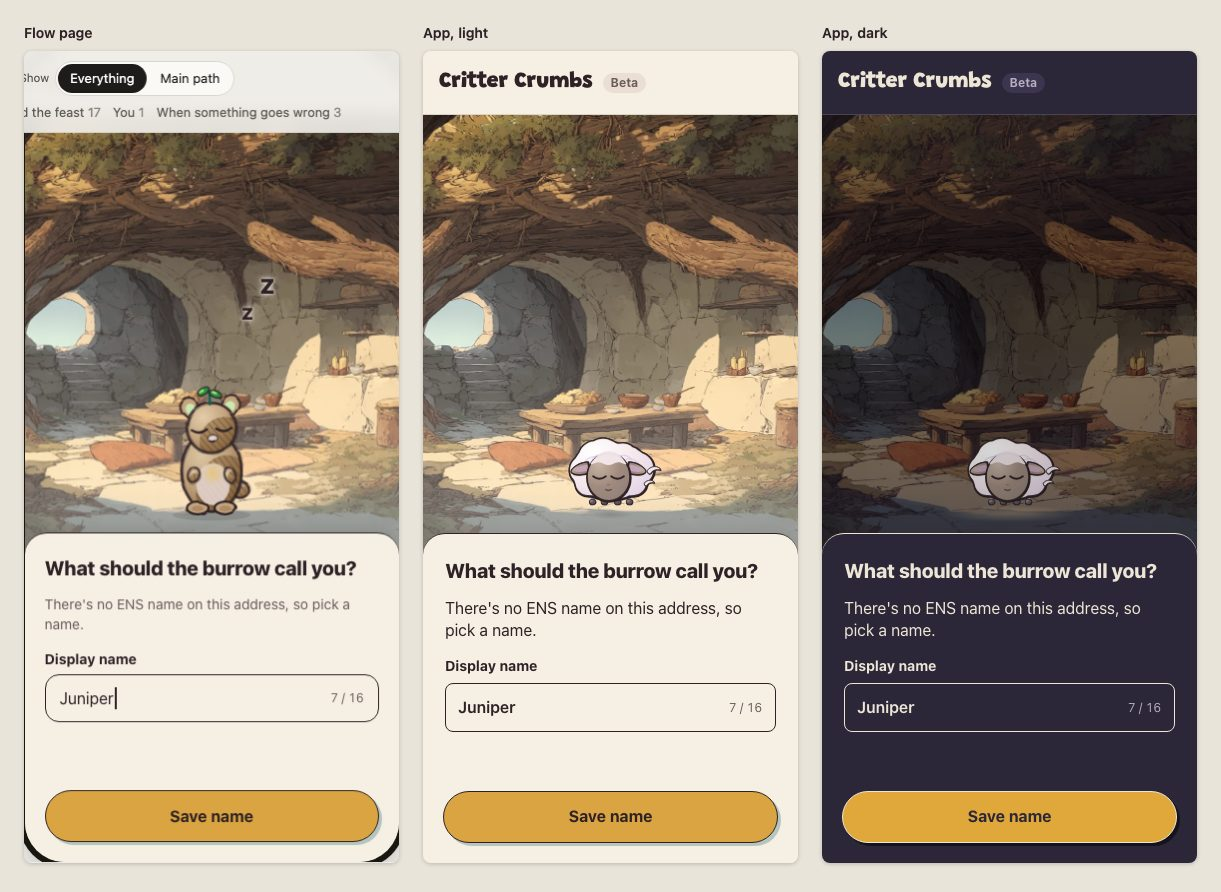
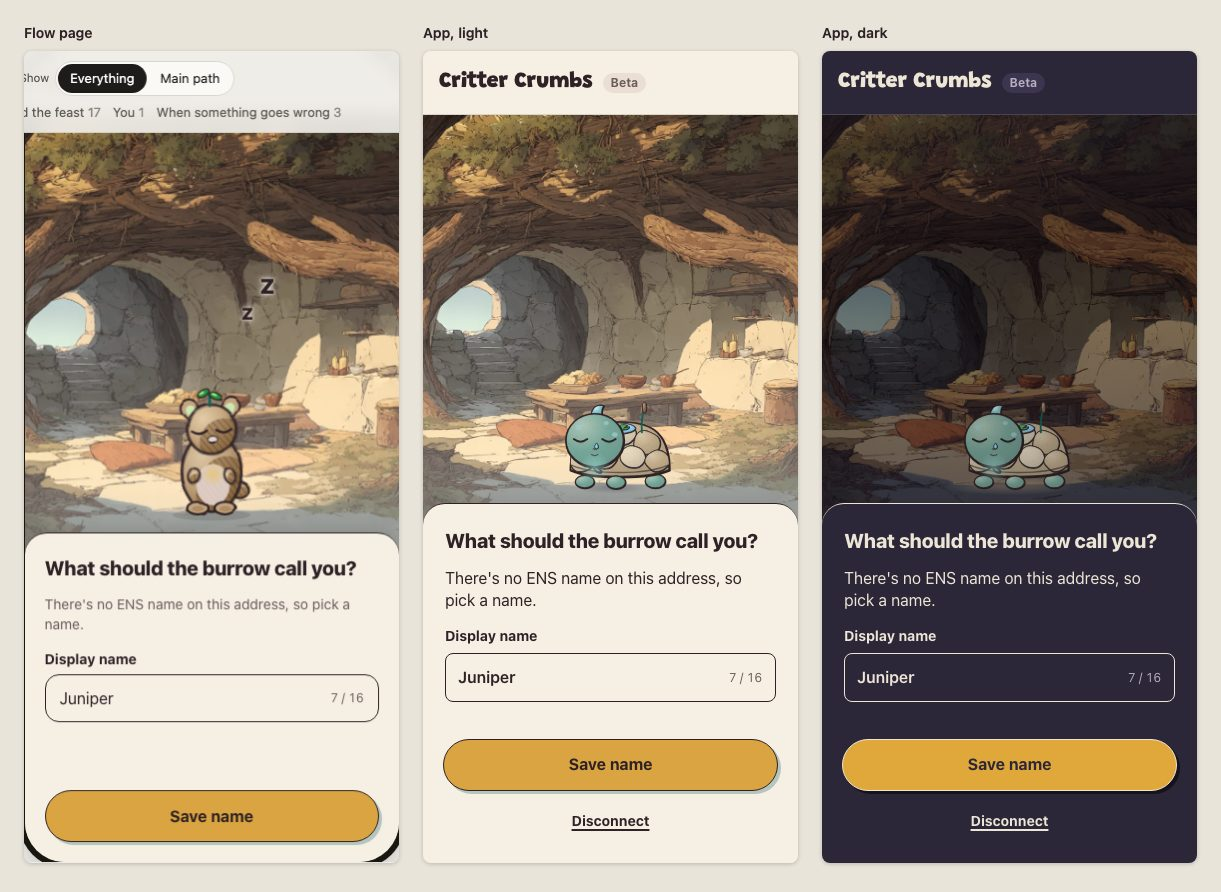
fix(app): the profile reads its way back only on arriving at it
While the first steps showed, the profile's origin was recomputed from
their own history entry, which records the profile, so returning from
How it works left the back chevron leading to the profile itself. The
e2e spec added for that visit caught it. The comparisons are retaken:
Disconnect under the first meeting's actions, the delighted critter and
the moss switches on the profile.

diff --git a/packages/app/src/app/app.tsx b/packages/app/src/app/app.tsx
@@ -64,7 +64,8 @@ export function App() {
   }
   useEffect(() => { void session.restore().catch(error => setAlert(message(error))); }, [session]);
   useEffect(() => {
-    const changed = () => { audio.stop(); setPath(location.pathname); setUnder(under => location.pathname === '/your-critter' && history.state?.from === '/how-it-works' ? under : returnPath(history.state)); setAlert(''); };
+    /* the profile's way back is read on arriving at it, except from the first steps, which return to it */
+    const changed = () => { audio.stop(); setPath(location.pathname); if (location.pathname === '/your-critter') setUnder(under => history.state?.from === '/how-it-works' ? under : returnPath(history.state)); setAlert(''); };
     const network = () => { setOnline(navigator.onLine); setAlert(navigator.onLine ? '' : copy['err.offline']); if (navigator.onLine) announce(copy['err.online']); };
     const media = matchMedia('(prefers-reduced-motion: reduce)'), scheme = matchMedia('(prefers-color-scheme: dark)');
     const motion = () => setSettings(value => ({ ...value, reducedMotion: media.matches })), device = () => setDeviceDark(scheme.matches);
